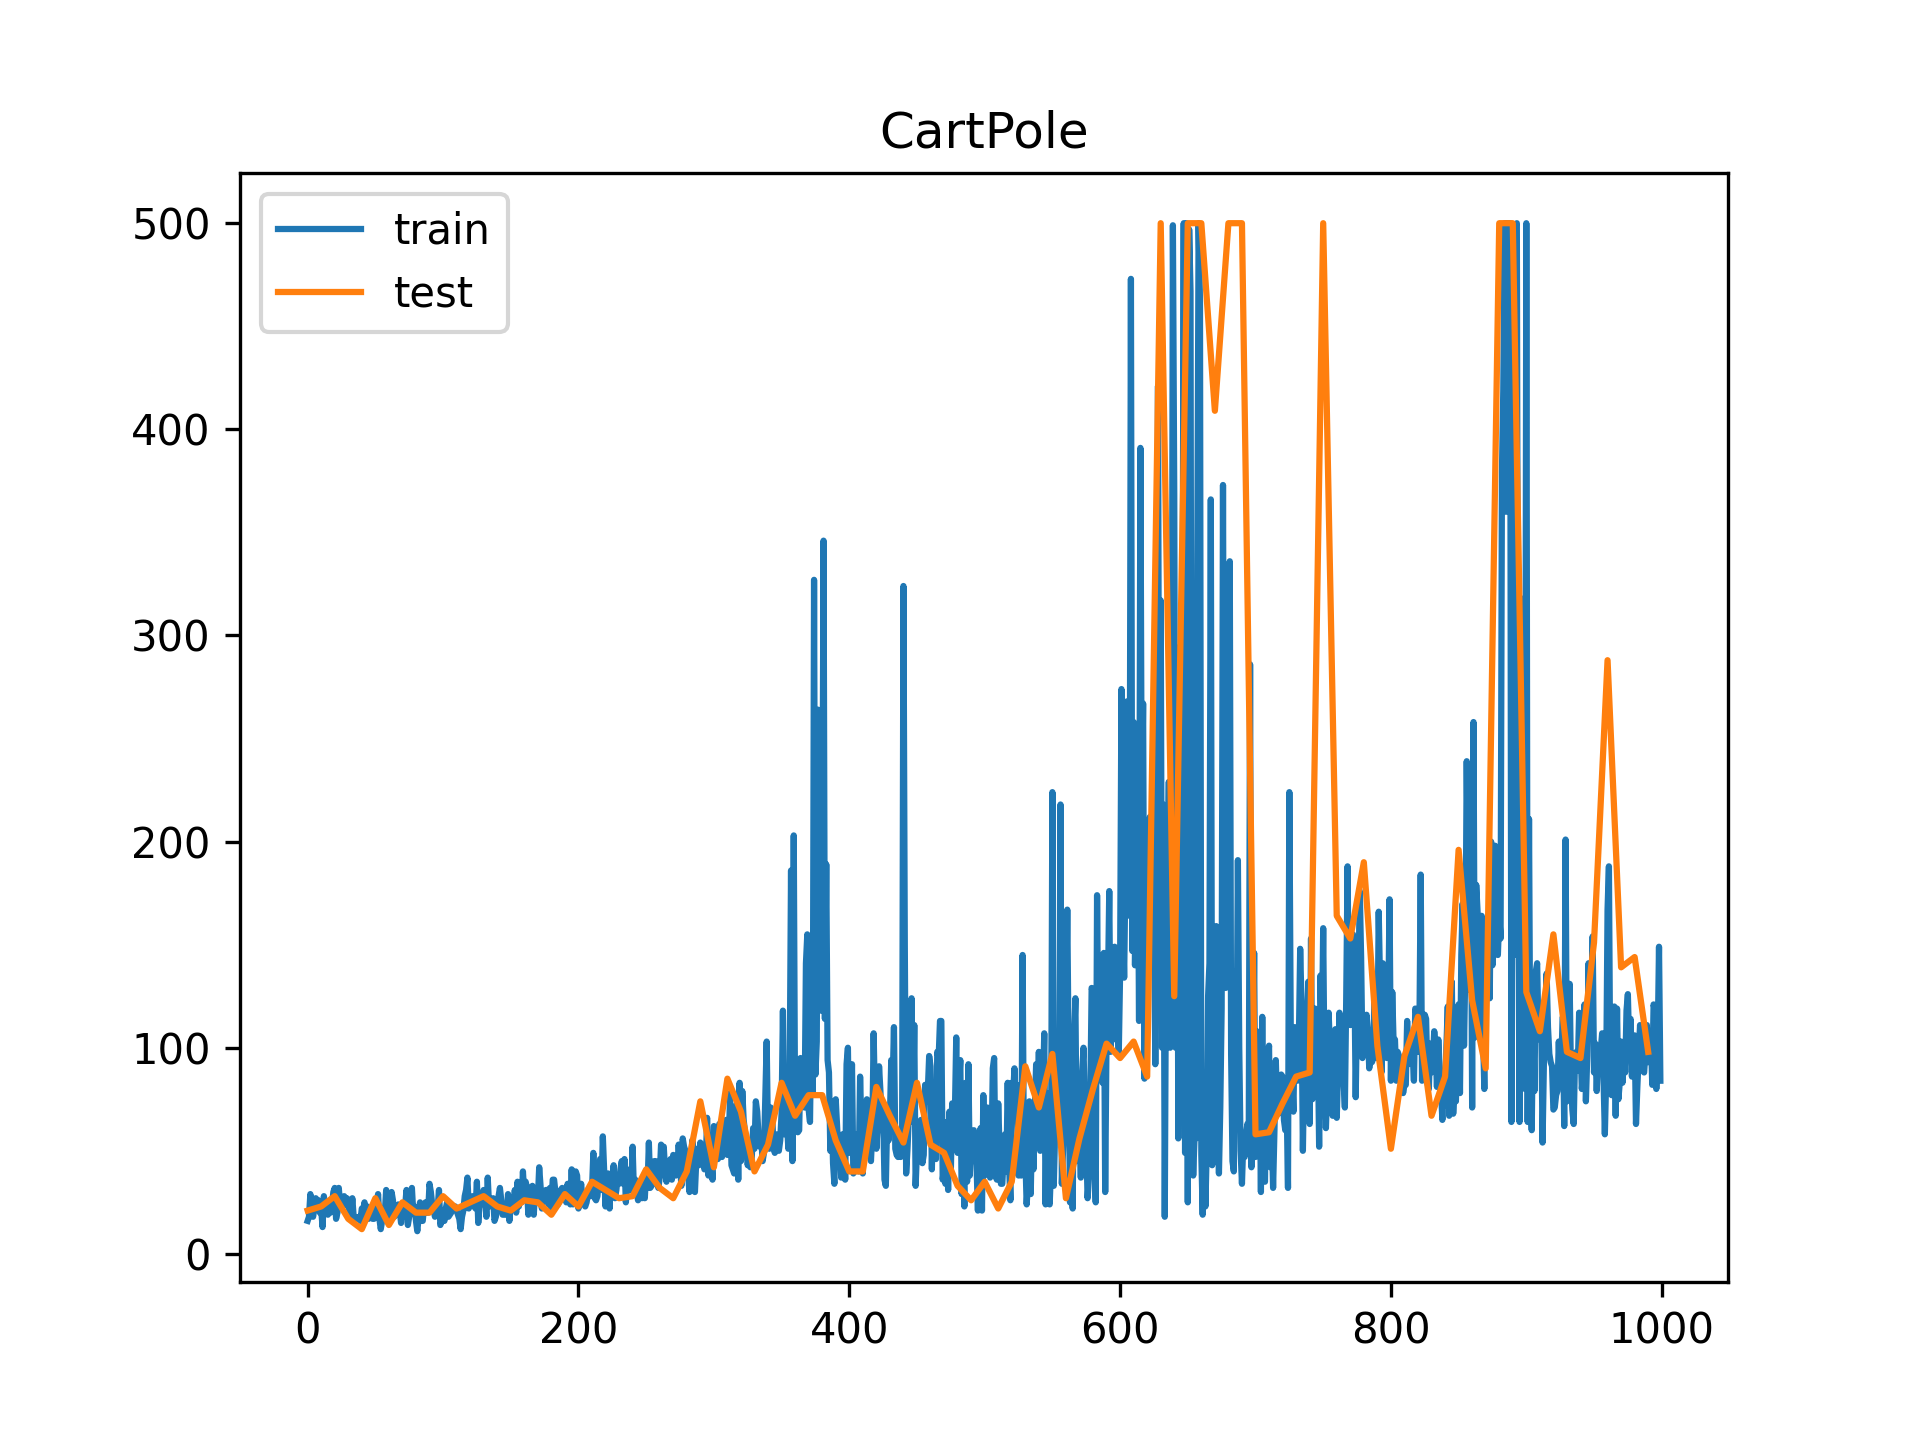
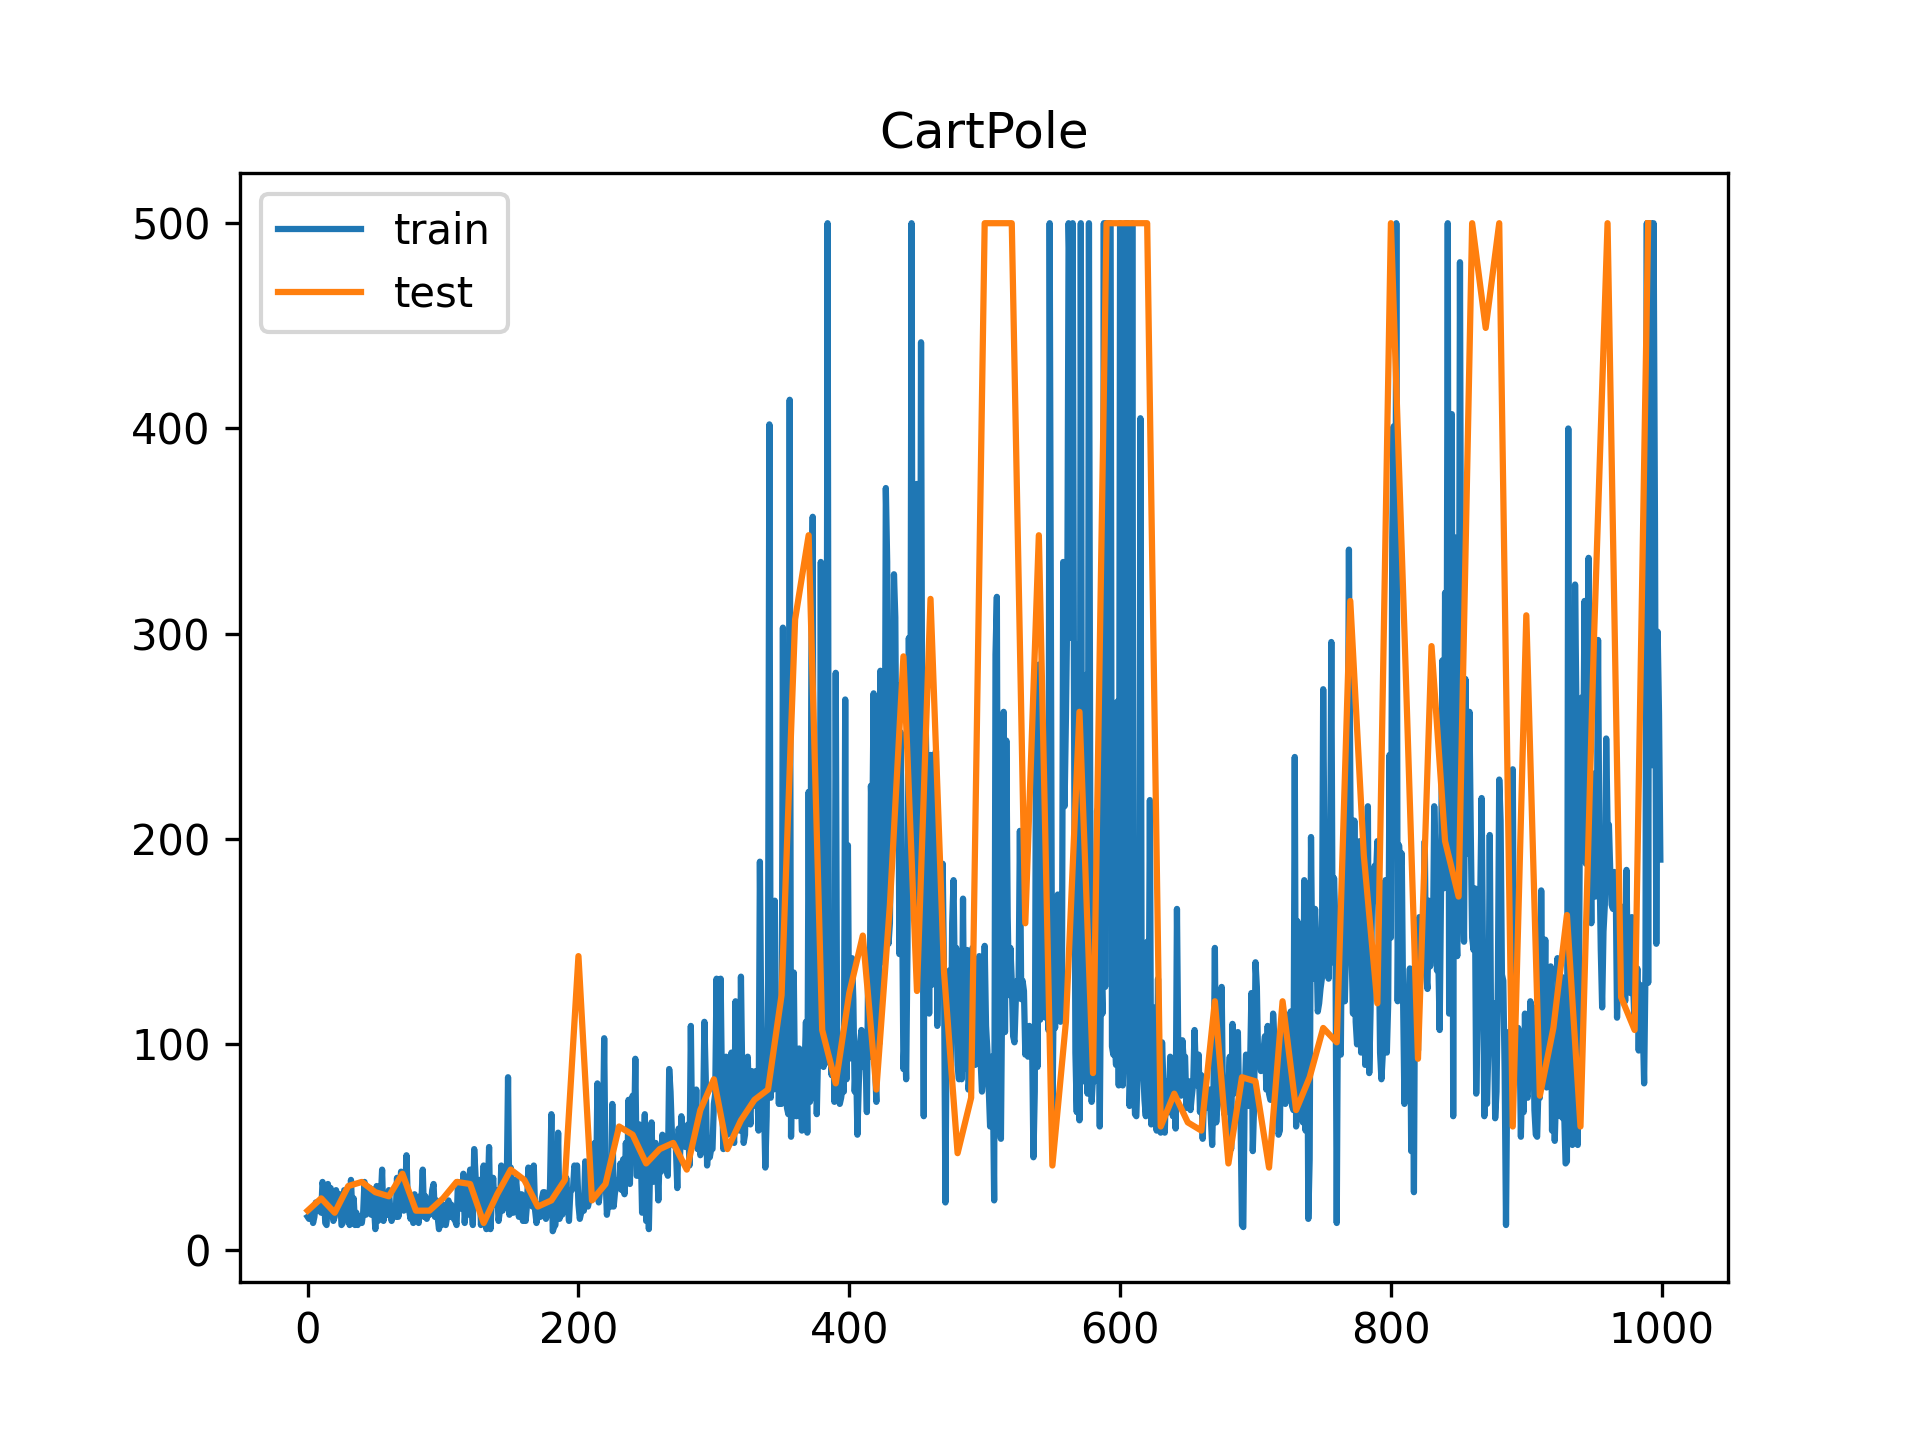
CartPole pass

diff --git a/dqn_train.py b/dqn_train.py
@@ -8,28 +8,30 @@ action_dim = env.action_dim
 from dqn_agent import DQNAgent
 conf = dict(
     action_dim = action_dim,
-    epsilon = 0.02,
-    gamma = 1,
-    device = 'cpu' # 我是尊贵的 Mac M4 用户, 可以使用 MPS 设备加速训练
+    epsilon_start = 1.0,
+    epsilon_end = 0.02,
+    epsilon_decay = 300,
+    gamma = 0.99,
+    device = 'cpu'
 )
 agent = DQNAgent(conf)
+agent.epsilon = conf["epsilon_start"]
 
 # 模型
 from q_network import QNetwork
-model = QNetwork(state_dim, action_dim, lr = 1e-3)
+model = QNetwork(state_dim, action_dim, lr = 3e-4)
 agent.set_model(model)
-
 
 from sample import FrameNumpy, SampleBatchNumpy
 from collections import deque
 import random
 from tqdm import tqdm
 from matplotlib import pyplot as plt
+import numpy as np
 
-# 训练流程
-buffer_size = 1000
-batch_size = 32
-episodes = 1000
+buffer_size = 2000
+batch_size = 64
+episodes = 1200
 train_returns = []
 test_returns = []
 replay_buffer = deque(maxlen = buffer_size) # 样本池
@@ -57,22 +59,39 @@ for episode in tqdm(range(episodes)):
             agent.sample_process(batch)
             agent.learn(batch)
     train_returns.append((episode, ret))
+
+    # 每 10 局测试一局
     if episode % 10 == 0:
-        # 每10局测试一局效果
         ret = 0
         obs = env.reset()
         done = False
         while not done:
-            action = agent.exploit(obs) # 最优动作
+            action = agent.exploit(obs)
             next_obs, reward, done, _ = env.step(action)
             ret += reward
             obs = next_obs
         test_returns.append((episode, ret))
 
-plt.plot([x[0] for x in train_returns], [x[1] for x in train_returns], label = 'train')
-plt.plot([x[0] for x in test_returns], [x[1] for x in test_returns], label = 'test')
+    # ---------- epsilon decay ----------
+    decay = (conf["epsilon_start"] - conf["epsilon_end"]) / conf["epsilon_decay"]
+    agent.epsilon = max(conf["epsilon_end"], agent.epsilon - decay)
+    # -----------------------------------
+
+# 绘图
+plt.plot([x[0] for x in train_returns], [x[1] for x in train_returns], label='train')
+plt.plot([x[0] for x in test_returns], [x[1] for x in test_returns], label='test')
 plt.legend()
-plt.title("CartPole")
-# 保存图片并展示
-plt.savefig('./results/dqn_cartpole.png', dpi = 300)
+plt.title("CartPole DQN")
+plt.savefig('./results/cartpole.png', dpi=300)
+plt.show()
+
+# 平滑版
+window_size = 10
+train_smooth = [np.mean([x[1] for x in train_returns[max(0, i - window_size + 1):i + 1]]) for i in range(len(train_returns))]
+test_smooth = [np.mean([x[1] for x in test_returns[max(0, i - window_size + 1):i + 1]]) for i in range(len(test_returns))]
+plt.plot([x[0] for x in train_returns], train_smooth, label = 'train smoothed')
+plt.plot([x[0] for x in test_returns], test_smooth, label = 'test smoothed')
+plt.legend()
+plt.title("CartPole Dueling DQN Smoothed")
+plt.savefig('./results/dqn_cartpole_dueling_smoothed.png', dpi = 300)
 plt.show()

diff --git a/q_network.py b/q_network.py
@@ -6,9 +6,9 @@ class QNetwork(nn.Module):
     def __init__(self, input_dim, output_dim, lr):
         super(QNetwork, self).__init__()
         self.seq = nn.Sequential(
-            nn.Linear(input_dim, 64),
+            nn.Linear(input_dim, 128),   # 加大一点网络，性能更好
             nn.ReLU(),
-            nn.Linear(64, output_dim)
+            nn.Linear(128, output_dim)
         )
         for m in self.modules():
             if isinstance(m, nn.Linear):
@@ -23,3 +23,7 @@ class QNetwork(nn.Module):
         self.optimizer.zero_grad()
         loss.backward()
         self.optimizer.step()
+
+    # 新增：用于 learn() 调用
+    def forward(self, obs):
+        return self.inference(obs)

diff --git a/get_info.py b/get_info.py
@@ -1,0 +1,13 @@
+import gym
+env = gym.make('CartPole-v1')
+# 查看环境信息
+print('#########################################')
+print('env.observation_space: ', env.observation_space)
+print('#########################################')
+print('env.action_space: ', env.action_space)
+print('#########################################')
+import torch
+# 查看PyTorch的设备支持情况
+print('cuda: ', torch.cuda.is_available())  # 是否支持 CUDA
+print('mps available: ', torch.backends.mps.is_available())  # 是否支持 MPS
+print('mps built: ', torch.backends.mps.is_built())      # 是否编译时包含 MPS

diff --git a/report.md b/report.md
@@ -1,0 +1,65 @@
+# CartPole
+
+## 补全网络结构
+
+```python
+# 输入样本Batch，训练模型
+def learn(self, samples: SampleBatchNumpy):
+    '''
+    samples需要包含字段: obs, next_obs, action, reward, done
+    '''
+    samples = samples.to_torch(device = self.device)
+    # 计算Q(s, a)
+    q_values = self.model.inference(samples.obs)
+    # shape of q_value: [samples_num, 1]
+    q_value = q_values.gather(1, samples.action)  # 此处需补全代码
+    # 计算Q(s', a)
+    next_q_values = self.model.inference(samples.next_obs)
+    max_next_q_value = next_q_values.max(1, keepdim=True)[0]  # 此处需补全代码
+    # Q函数更新目标 
+    # 理想情况下, q_target: [samples_num, 1]
+    q_target = samples.reward + self.gamma * max_next_q_value * (1 - samples.done)  # 此处需补全代码
+    loss = F.mse_loss(q_value, q_target) # 此处需补全代码
+    # 模型更新
+    self.model.train(loss)
+```
+
+代码补充如上，按讲义上的步骤设计的DQA算法
+
+> 补全网络后, 训练时CartPole上的表现如下，发现**震荡**，**不稳定**
+
+![dqn_cartpole](./results/dqn_cartpole.png)
+
+----
+
+### 调整参数如下
+
+```python
+conf = dict(
+    action_dim = action_dim,
+    epsilon_start = 1.0,
+    epsilon_end = 0.02,
+    epsilon_decay = 300,
+    gamma = 0.99,
+    device = 'cpu'
+)
+...
+model = QNetwork(state_dim, action_dim, lr = 3e-4)
+...
+buffer_size = 2000
+batch_size = 64
+episodes = 1200
+```
+
+选用了衰减性的epsilon贪心，同时更改学习率和超参数，最终结果如下（第一张图是初始表现，第二张图是平均表现）
+
+![cartpole](./results/cartpole.png)
+
+
+
+![cartpole](./results/dqn_cartpole_dueling_smoothed.png)
+
+---
+
+可以明显地发现，虽然仍有震荡的情形发生，但经过1200轮训练之后已经可以稳定跑满500步。
+
